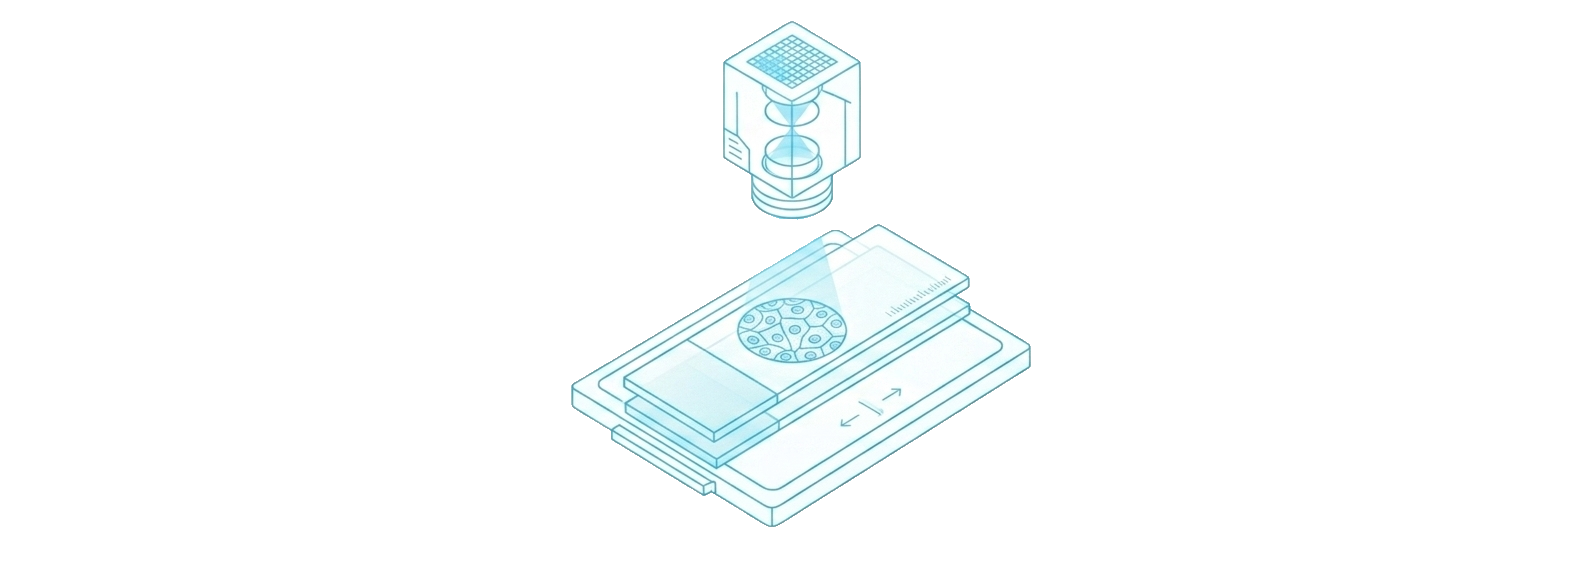
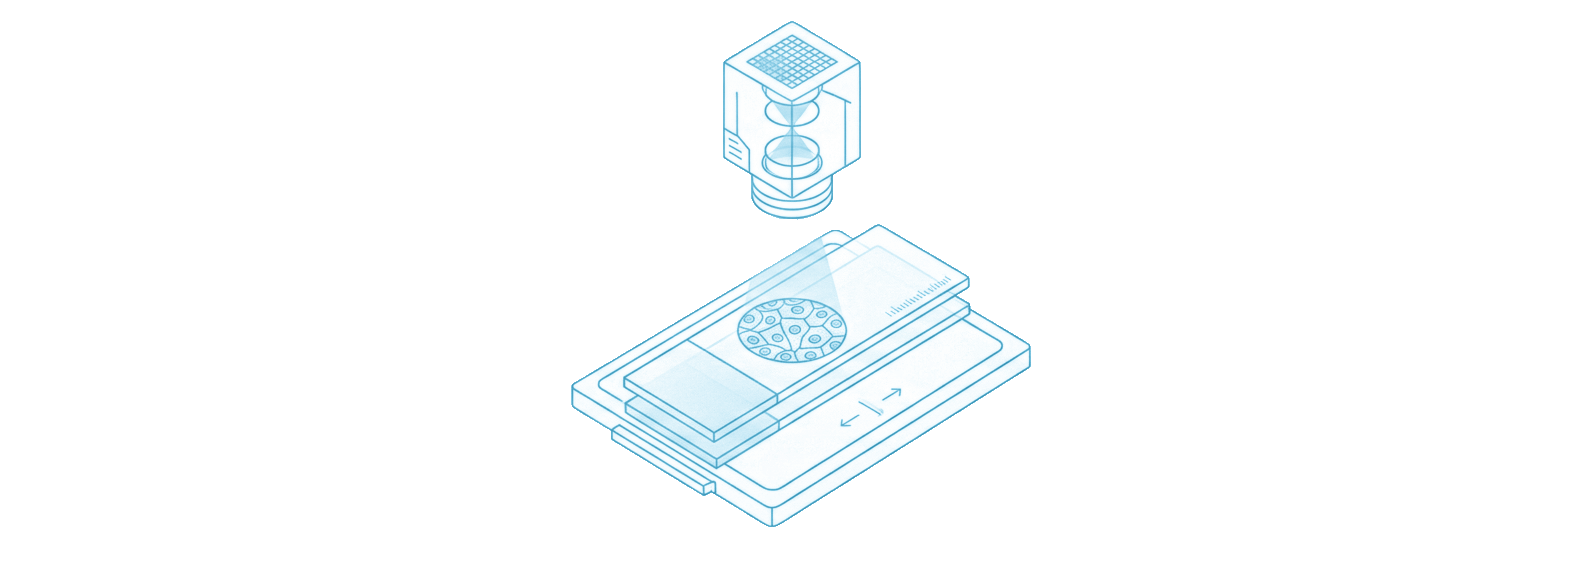
fix: refine home workflow visuals and normalize slide artwork

diff --git a/AindraNewWebsite_Final/components/UnifiedWorkflowSection.tsx b/AindraNewWebsite_Final/components/UnifiedWorkflowSection.tsx
@@ -173,7 +173,7 @@ export const UnifiedWorkflowSection: React.FC = () => {
                       {step.title}
                     </h3>
 
-                    <div className="relative w-full max-w-5xl aspect-[1590/559] overflow-hidden flex items-center justify-center">
+                    <div className="relative w-full max-w-[92vw] xl:max-w-7xl aspect-[1590/559] overflow-hidden flex items-center justify-center">
                       <img
                         src={step.imageSrc}
                         alt={step.title}